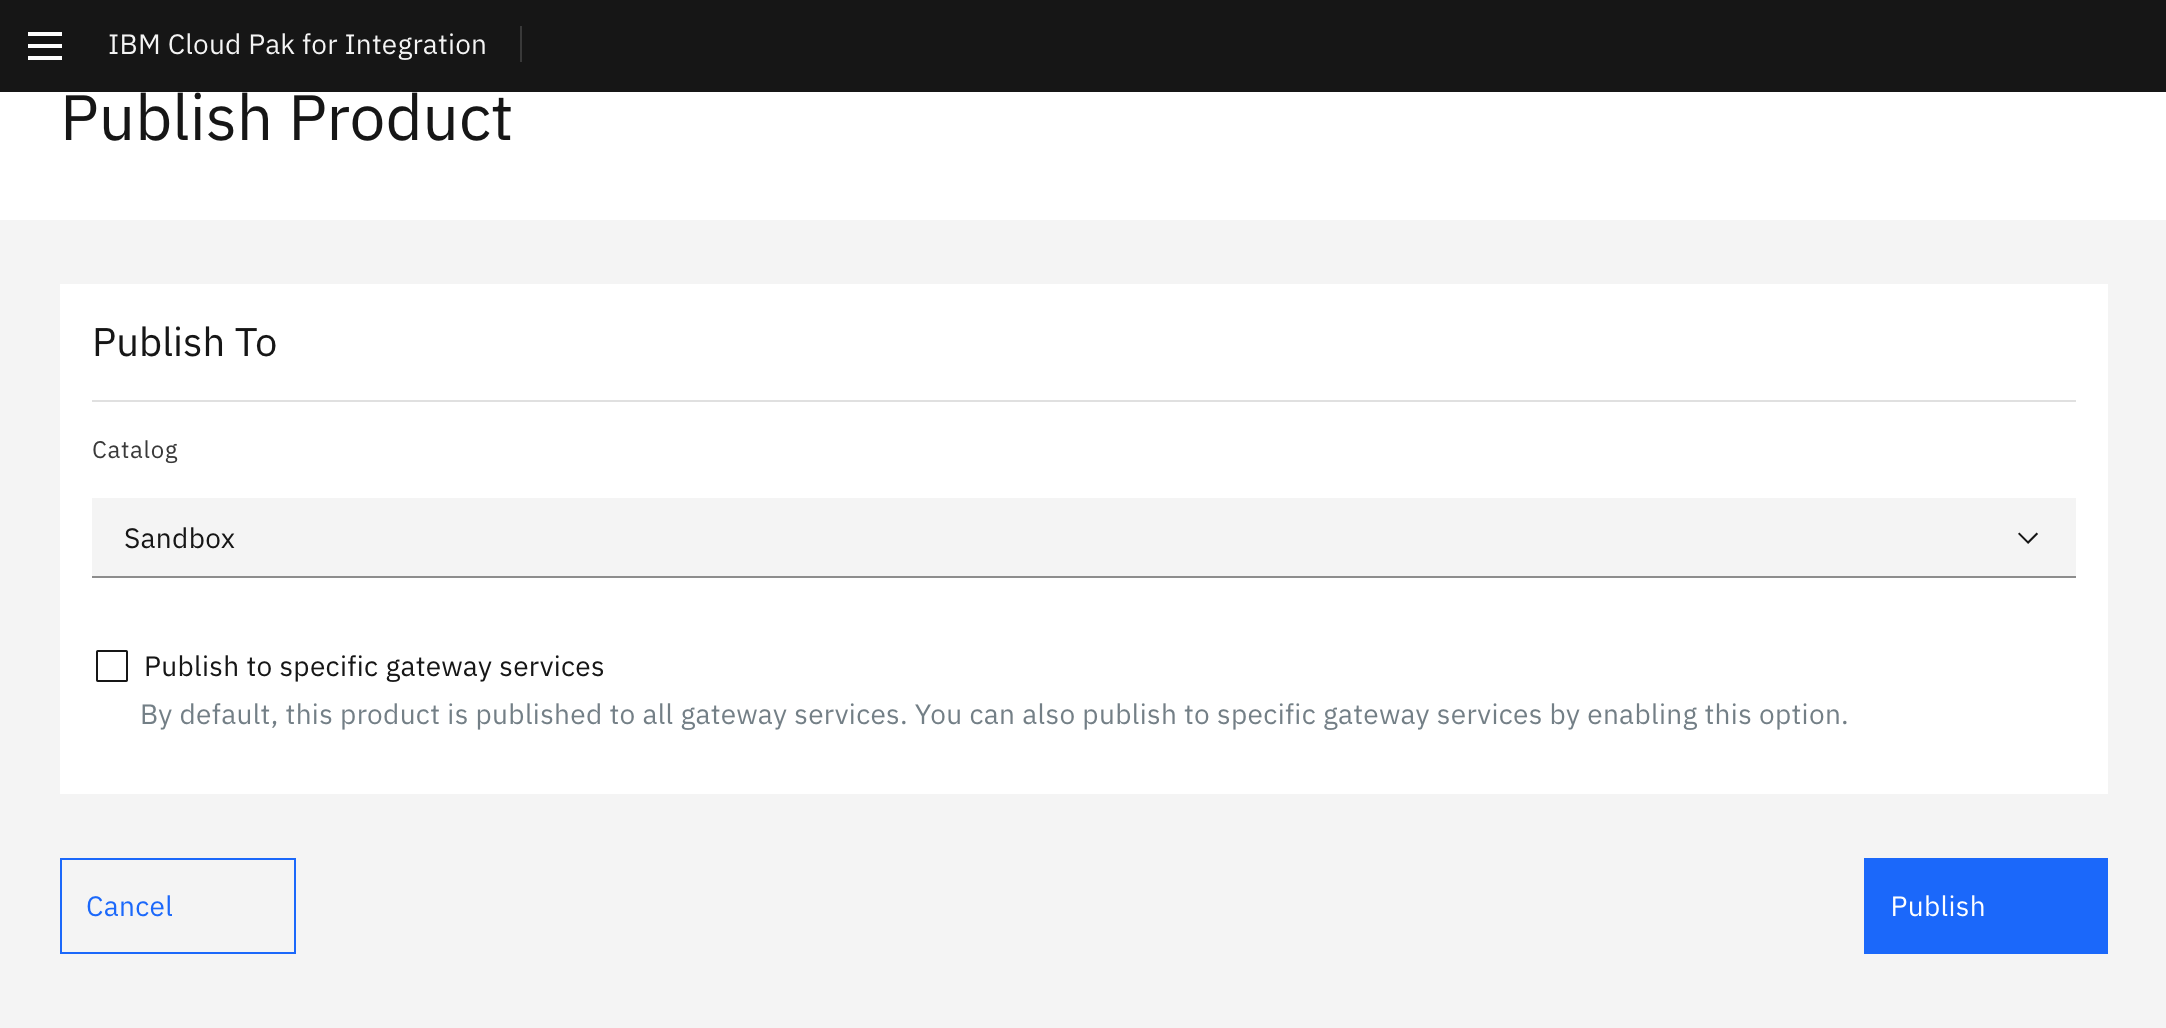
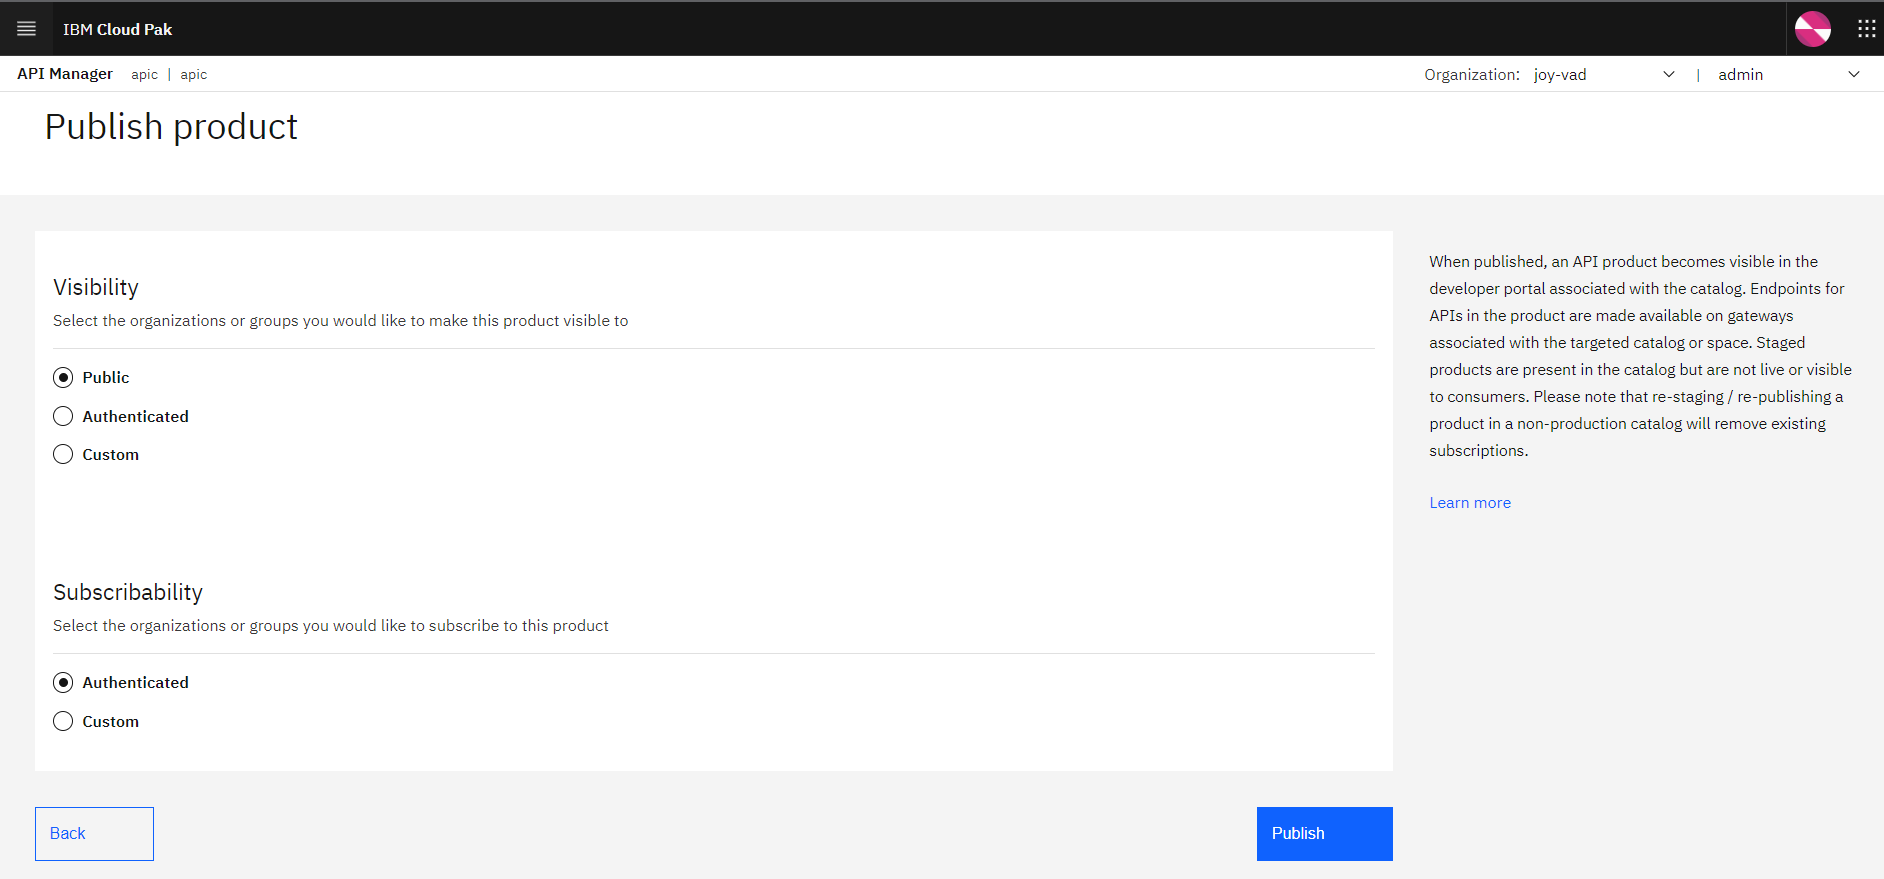
updated lab 8

diff --git a/instructions/Lab8/index.md b/instructions/Lab8/index.md
@@ -39,28 +39,28 @@ login using API Manager User Registry not Common Services
 registry.]**
 
 [Lab 1 : Create and Secure an API to Proxy an Existing REST Web
-service](https://github.com/ibm-cloudintegration/dte-labs/blob/master/APICv10/instructions/Lab1)
+service](https://github.com/ibm-ecosystem-lab/APICv10/tree/main/instructions/Lab1)
 
 [Lab 2 : The Developer Portal
-Experience](https://github.com/ibm-cloudintegration/dte-labs/blob/master/APICv10/instructions/Lab2)
+Experience](https://github.com/ibm-ecosystem-lab/APICv10/tree/main/instructions/Lab2)
 
 [Lab 3 : Add OAuth Security to your
-API](https://github.com/ibm-cloudintegration/dte-labs/blob/master/APICv10/instructions/Lab3)
+API](https://github.com/ibm-ecosystem-lab/APICv10/tree/main/instructions/Lab3)
 
 [Lab 4 : Use Lifecycle Controls to Version Your
-API](https://github.com/ibm-cloudintegration/dte-labs/blob/master/APICv10/instructions/Lab4)
+API](https://github.com/ibm-ecosystem-lab/APICv10/tree/main/instructions/Lab4)
 
 [Lab 5: Advanced API
-Assembly](https://github.com/ibm-cloudintegration/dte-labs/blob/master/APICv10/instructions/Lab5)
+Assembly](https://github.com/ibm-ecosystem-lab/APICv10/tree/main/instructions/Lab5)
 
 [Lab 6: Working with API
-Products](https://github.com/ibm-cloudintegration/dte-labs/blob/master/APICv10/instructions/Lab6)
+Products](https://github.com/ibm-ecosystem-lab/APICv10/tree/main/instructions/Lab6)
 
 [Lab 7: The Consumer
-Experience](https://github.com/ibm-cloudintegration/dte-labs/blob/master/APICv10/instructions/Lab7)
+Experience](https://github.com/ibm-ecosystem-lab/APICv10/tree/main/instructions/Lab7)
 
 [Lab 8: Create and test GraphQL Proxy
-API](https://github.com/ibm-cloudintegration/dte-labs/blob/master/APICv10/instructions/Lab8)
+API](https://github.com/ibm-ecosystem-lab/APICv10/tree/main/instructions/Lab8)
 
 Prerequisites: None
 
@@ -71,8 +71,7 @@ Prerequisites: None
 
     ![](images/tutorial_html_c0c5acec16e566bb.png)
 
-2.  Enter the following values and click Next. You To create a GraphQL
-    proxy definition, select From Existing GraphQL service. When you
+2.  To create a GraphQL proxy definition, select From Existing GraphQL service. When you
     point to an existing GraphQL server, API Connect introspects the
     service and automatically creates a GraphQL proxy service.
 
@@ -81,16 +80,16 @@ Prerequisites: None
 3.  Enter the following values and click Next. You can use default
     values for the rest.
 
-    Title: accounts
+    Title: countries
 
-    GraphQL server URL: https://graphql-test-server.us-east.cf.appdomain.cloud/accounts/graphql
+    GraphQL server URL: https://countries.trevorblades.com/graphql
 
     ![](images/tutorial_html_f83e60ae96763438.png)
 
     ![](images/tutorial_html_90e0cbad29eca5a.png)
 
-4.  The schema validator reports warning and errors if found. There is
-    one warning in the accounts schema imported from the server. You can
+4.  The schema validator reports warning and errors if found. There are 7
+    warnings in the countries schema imported from the server. You can
     review the schema warning details and also select the end points
     interested for this proxy. Select all the available end points.
 
@@ -115,7 +114,7 @@ Prerequisites: None
 8.  GraphQL APIs are structured the same as REST APIs with some
     additional options. Just like REST APIs, you will be able to add
     security definitions, properties and Activity logs from the left
-    menu bar. You can also view the Source and Assemble tabs similar to
+    menu bar. You can also view the Source and Policies tabs similar to
     REST APIs. You will notice a new tab for GraphQL APIs. Click on
     GraphQL Schema tab to view the schema.
 
@@ -129,9 +128,9 @@ Prerequisites: None
 
     ![](images/tutorial_html_ab0c11b157a7cd4b.png)
 
-10. Select Query to review the warning details for this type. In
+10. Click View in the warnings to review the warning details. In
     addition to the warning details, the Warning window gives an option
-    to fix the warning by apply the limits. Click Apply to continue.
+    to fix the warnings by apply the limits. Click Apply All to continue.
 
     ![](images/tutorial_html_ed0f88002c9eb816.png)
 
@@ -140,7 +139,7 @@ Prerequisites: None
 
     ![](images/tutorial_html_63ce76efdb0032d7.png)
 
-12. Select Assemble to view the API in Assembly view. The flow is
+12. Select Policies in Gateway tab to view the API in Assembly view. The flow is
     automatically created as part of the initial API creation. You may
     apply addition logic by dragging and dropping items from the pallet
     to the canvas. In this tutorial, you are not adding additional
@@ -148,46 +147,47 @@ Prerequisites: None
 
     ![](images/tutorial_html_a2cd4daada4f2ca5.png)
 
-13. To publish the API toggle the button from offline to online.
+13. Countries GraphQL backend API doesn't support compression, hence we need to 
+    disable the compression. Click the Source button next to Pencil icon at the top 
+	and search for **compression** and set the value to false, as shown below.
+	
+	![](images/compression_flag.png)		
+
+14. Save the changes. To publish the API toggle the button from offline to online.
 
     ![](images/tutorial_html_965b91d211caf432.png)
 
-14. After successfully publishing the API to API Gateway, additional
+15. After successfully publishing the API to API Gateway, additional
     tabs appear on the screen. Select Test tab to test the API.
 
     ![](images/tutorial_html_ccb982e24326f44f.png)
 
-15. To test the API select the end point by append graphql at the end of
-    the request URL for GET method. The URL should look like this (your
+16. To test the API select the end point for POST method. The URL should look like this (your
     value may be different):
 
-    <https://apic-dev-gw-gateway-apic.cp4inew-138661-3195e5b101a2fc76b9c4875fb79cfa25-0000.us-south.containers.appdomain.cloud/org01/sandbox/accounts/graphql>
+    <https://apic-gw-gateway-apic.apps.ocp-060001q8qm-ada2.cloud.techzone.ibm.com/joy-vad/sandbox/countries/graphql>
+      
 
-    Click **Send** to test the API.
-
-    An empty string is returned since we have not specified query string yet.
-
-16. API Connect Test feature also includes GraphQL Editor. Enter the
-    following in in GraphQL Editor window. You may use Prettify option
+17. API Connect Test feature also includes GraphQL Editor called **GraphiQL**. Enter the
+    following in GraphiQL Editor window. You may use Prettify option
     to view formatting string.
 
 ```
 {
-  accounts(limit: 2) {
-    name {
-      first
-      last
-    }
+  continents {
+    name
+    code
+    
   }
 }
 ```
 
-17. Click Run button to send the GraphQL request to the end point. An
+18. Click Run button to send the GraphQL request to the end point. An
     exception window will appear when you use test the API for the first
     time.
 
 
-18. Click accept Exception to continue.
+19. Click accept Exception to continue.
 
     ![](images/tutorial_html_98d8f253e9342c8b.png)
 
@@ -196,53 +196,30 @@ Prerequisites: None
     you are using Chrome browser you can accept the exception by typing
     "thisisunsafe" anywhere in the window. Similar workarounds are available
     for other browsers. For firefox browser, follow the steps from here -
-    <https://support.mozilla.org/en-US/kb/error-codes-secure-websites>
+    <https://support.mozilla.org/en-US/kb/error-codes-secure-websites>    
 
-    ![](images/tutorial_html_ac0c773416db4db7.png)
-
-19. The results for GraphQL request are displayed on the right panel. In
-    the request we limited the values to 2, so only two accounts are
-    displayed. Change the value to 5 and submit the request again and
-    notice that more accounts are returned in the results window.
+20. The results for GraphQL request are displayed on the right panel. 
 
     ![](images/tutorial_html_1d05935575c71f8e.png)
 
-20. You can request additional data fields (refer to the schema editor
-    for details), GraphQL may reject if certain fields are locked or
-    prohibited. To test this, enter CreditCard information in the
-    request field.
-
-    The complete request looks as follows:
+21. You can request additional queries, refer to the schema editor
+    for details or go to https://github.com/trevorblades/countries/ for example requests).
+    
 ```
 {
-  accounts(limit: 2) {
-    name {
-      first
-      last
+  country(code: "ID") {
+    name
+    native
+    capital
+    emoji
+    currency
+    languages {
+      code
+      name
     }
-    shippingAddress {
-      building
-      street
-    }
-  }
-  creditCard {
-    number
-    expirationDate
   }
 }
 ```
-
-  You will notice that an error message is displayed in the results window
-  instead of the account values as the server restricts the query field
-  creditCard.
-
-  (Note: The error message displayed may be different than what is shown
-    in the screenshot).
-
-  ![](images/tutorial_html_81c927163c9c11bb.png)
-
-21. Submit another request to get account and shipping address details.
-    This time the values are turned without errors.
 
     ![](images/tutorial_html_e37331678c3d02b2.png)
 
@@ -254,36 +231,44 @@ Prerequisites: None
 
     ![](images/tutorial_html_4f43bda35452bd65.png)
 
-2.  Name the product as Accounts Product and click Next
+2.  Name the product as Countries Product and click Next
 
     ![](images/tutorial_html_d0c3992a4bd7bc24.png)
 
-3.  Add Accounts API to the product by selecting accounts. Click Next to
-    continue to create the accounts-product.
+3.  Add Countries API to the product by selecting countries. Click Next to
+    continue to create the countries-product.
 
     ![](images/tutorial_html_4ae09f5fddd82bab.png)
+	
+4. Select the Default Plan and Click Next.	
 
-4.  Edit the product accounts-product to review the details. The Default
-    Plan contains traditional rate limiting options but you will notice
+5.  Accept the default for Visibility and Subscribability and Click Next
+
+    ![](images/tutorial_html_1adf1922464ea393.png)
+
+6.  Click Edit Product to Edit the product countries-product to review the details. 
+    
+	![](images/edit-product.png)
+
+7.	The Default Plan contains traditional rate limiting options but you will notice
     another section that list GraphQL Rate Limits.
 
     ![](images/tutorial_html_15d9c2582155eea8.png)
 
-5.  You will be able to adjust GraphQL cost parameters from this
+8.  You will be able to adjust GraphQL cost parameters from this
     section. You can set a limit or make it unlimited. You will not be
     making any changes in this tutorial.
 
     ![](images/tutorial_html_3c25f5d5dab1988e.png)
 
-6.  Publish the Product to Sandbox Catalog by selecting Publish
+
+9.  Publish the Product to Sandbox Catalog and Click Next.
 
     ![](images/tutorial_html_a1f1cf7707e31913.png)
 
-7.  Accept the default for Visibility and Subscribability
+10.  Accept the default for Visibility and Subscribability    
 
-    ![](images/tutorial_html_1adf1922464ea393.png)
-
-8.  Click Publish to complete publishing the product.
+11.  Click Publish to complete publishing the product.
 
     ![](images/tutorial_html_890ebcd8219b104.png)
 
@@ -298,12 +283,12 @@ Prerequisites: None
     ![](images/tutorial_html_c34973eb377015ce.png)
 
 2.  Developer Portal displays all the products that are currently
-    published. Locate accounts-product and select the product.
+    published. Locate countries-product and select the product.
 
     ![](images/tutorial_html_2635d049f12d59c6.png)
 
-3.  The selected product lists one API (accounts api) and one Plan
-    (Default Plan). Select Subscribe option to subscribe to the plan.
+3.  The selected product lists one API (countries api) and one Plan
+    (Default Plan). Click Select to subscribe to the plan.
 
     ![](images/tutorial_html_bd0ea34d4f40d756.png)
 
@@ -312,19 +297,25 @@ Prerequisites: None
     created.
 
     ![](images/tutorial_html_2fd3cf48168675e5.png)
+	
+5.  Subscribe to Countries product and Click Next.
 
-5.  Select accounts API to review and test the API. Click accounts to
+6.  Review summary and Click Done.
+
+    ![](images/dev_portal_subscription.png)			
+
+7.  Select countries API to review and test the API. Click countries to
     continue
 
     ![](images/tutorial_html_8a5975dd9780a924.png)
 
-6.  Developer Portal displays the type as GrahQL API. Currently Client
-    ID security is enforced. Since there is only on Plan and one
+8.  Developer Portal displays the type as GrahQL API. Currently Client
+    ID security is enforced. Since there is only one Plan and one
     Consumer Application, the Consumer ID filed is already populated.
 
     ![](images/tutorial_html_e8892b4b3da410fc.png)
 
-7.  To continue to test the API, use the GraphQL Editor. Submit requests
+9.  To continue to test the API, use the GraphQL Editor. Submit requests
     with different field names and watch how quickly the results are
     returned in the results window. If this was a REST API multiple end
     points will be needed to achieve the same result.
